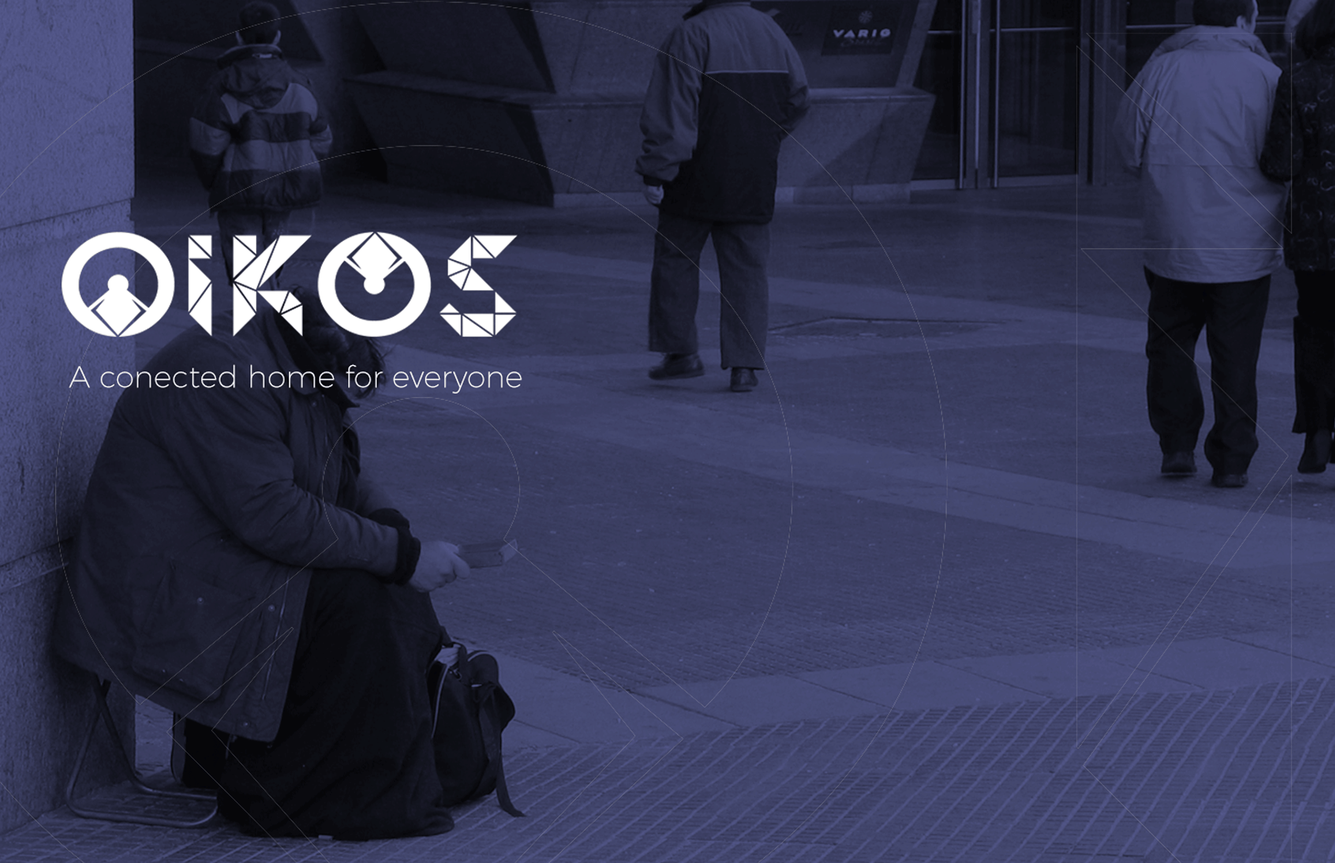
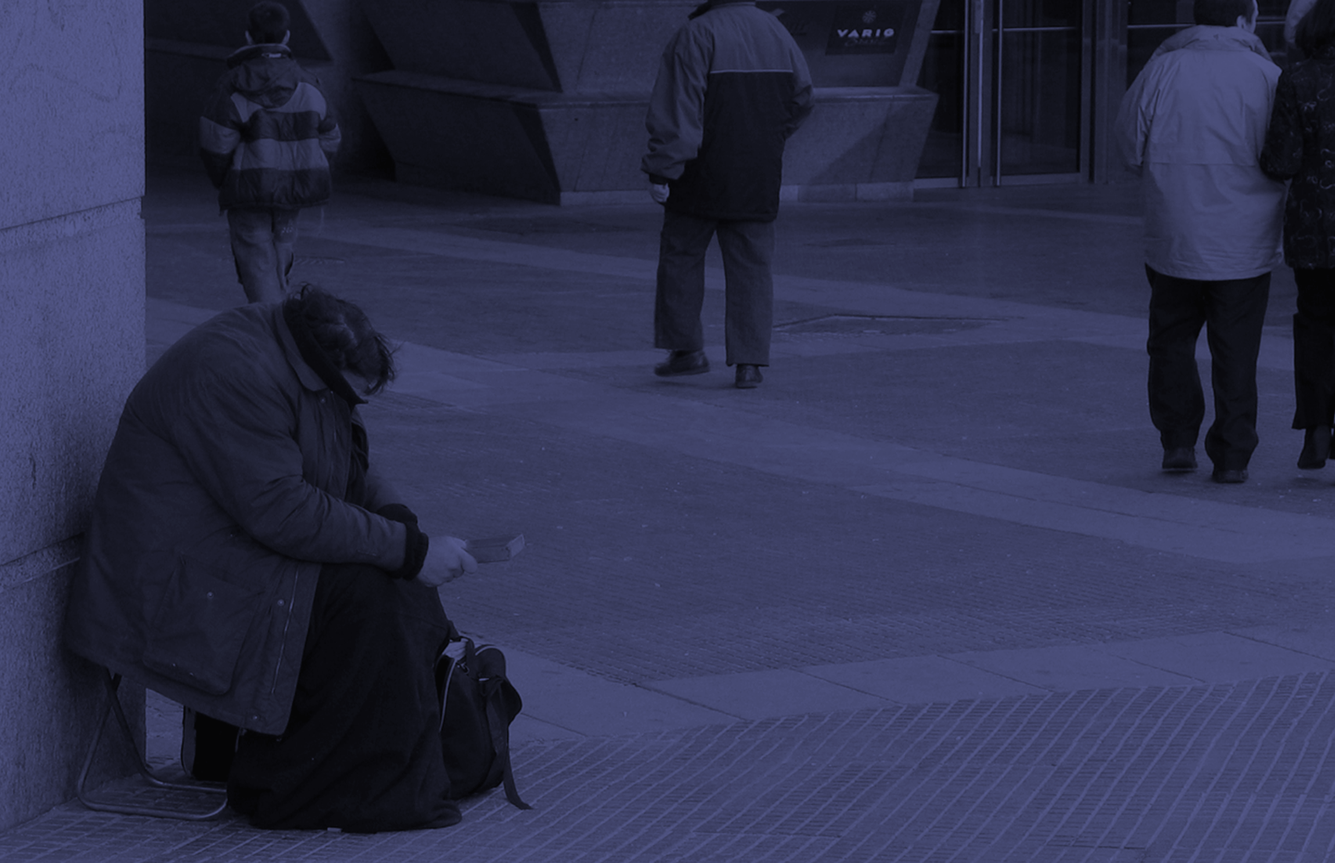
[Filipe Oliveira] Image changes

diff --git a/index.html b/index.html
@@ -9,7 +9,7 @@
     <meta name="viewport" content="width=device-width, initial-scale=1">
 
     <!-- Favicon -->
-    <link rel="shortcut icon" href="favicon.ico">
+    <link rel="shortcut icon" href="assets/images/oikos/favicon.png">
     <!-- Bootstrap -->
     <link rel="stylesheet" href="assets/styles/vendor/bootstrap.min.css">
     <!-- Fonts -->
@@ -52,14 +52,8 @@
 
     <nav class="navbar navbar-default navbar-fixed-top navbar-trans navbar-trans-dark trans-helper navbar-fw" role="navigation">
         <div class="navbar-header page-scroll">
-            <button type="button" class="navbar-toggle collapsed" data-toggle="collapse" data-target="#navbar" aria-expanded="false" aria-controls="navbar">
-                <span class="sr-only">Toggle navigation</span>
-                <span class="icon-bar"></span>
-                <span class="icon-bar"></span>
-                <span class="icon-bar"></span>
-            </button>
             <!-- Logo -->
-            <a class="navbar-brand" href="index.html"><img class="navbar-logo-dark" src="assets/images/oikos/logo.png" alt="Oikos Logo"></a>
+            <a class="navbar-brand" href="index.html"><img class="navbar-logo-dark" src="assets/images/oikos/logo-light.png" alt="Oikos Logo"></a>
         </div>
 
 
@@ -76,8 +70,7 @@
             <!-- Hero Content -->
             <div class="hero-content-wrapper">
                 <div class="hero-content">
-
-
+                    <div class="hero-lead wow fadeInLeft" data-wow-duration="1.5s"><img src="assets/images/oikos/logo_big.png" alt="Oikos - Connected home for everyone"></div>
                 </div>
             </div>
 
@@ -93,37 +86,40 @@
     <!-- / .main-hero-2 -->
 
     <!-- ========== About OIKOS ========== -->
-    <section id="problem" class="container">
-        <div class="row">
-            <h2>Problem</h2>
-            <div class="col-md-12">
-                <p>According to a report by the UN Commission on Human Rights, it is estimated that there are over 100 million people who do not have a home and so live on the streets of major metropolitan centers around the world. The number represents
-                    about 1.5% of the world's population and only increases each year.</p>
+    <div id="about" class="container">
+        <section id="problem" class="container">
+            <div class="row">
+                <h2>Problem</h2>
+                <div class="col-md-12">
+                    <p>According to a report by the UN Commission on Human Rights, it is estimated that there are over 100 million people who do not have a home and so live on the streets of major metropolitan centers around the world. The number represents
+                        about 1.5% of the world's population and only increases each year.</p>
+                </div>
             </div>
-        </div>
-    </section>
-    <section id="solution" class="container">
-        <div class="row">
-            <h2>Solution</h2>
-            <div class="col-md-12">
-                <p>We believe that there are ways to achieve social and economic justice through technologies for the good of all people. We believe in equality, that everyone has the right to own a home, a place to live in. Taking a look at the increasing
-                    of poverty conditions of people living in streets we started this project with the mainly mission of understanding how we could help their needs and inclusion in society.</p>
+        </section>
+        <section id="solution" class="container">
+            <div class="row">
+                <h2>Solution</h2>
+                <div class="col-md-12">
+                    <p>We believe that there are ways to achieve social and economic justice through technologies for the good of all people. We believe in equality, that everyone has the right to own a home, a place to live in. Taking a look at the increasing
+                        of poverty conditions of people living in streets we started this project with the mainly mission of understanding how we could help their needs and inclusion in society.</p>
 
-                <p>For this aim, we present you “OIKOS”, a low cost, smart and accessible house for the social inclusion of homeless people. Our solution consists in a literal house with a Parametric Design made of recycled material, such as cardboard. Low
-                    cost solar panels are also available in each Oikos house with the aim to charge during the day offering led light at night and energy. Oikos comes with colourful cultural-concept paintings that can bring beauty and life into the cities.</p>
+                    <p>For this aim, we present you “OIKOS”, a low cost, smart and accessible house for the social inclusion of homeless people. Our solution consists in a literal house with a Parametric Design made of recycled material, such as cardboard.
+                        Low cost solar panels are also available in each Oikos house with the aim to charge during the day offering led light at night and energy. Oikos comes with colourful cultural-concept paintings that can bring beauty and life into
+                        the cities.</p>
 
-                <p>The Oikos houses are connected to each other forming a P2P network inside our IoT system and Wearables with a Context Sensitive program. Thus, it is possible to create a georeffered map of the needs of each oikos’ resident. The Oikos house
-                    is equipped with “buttons of needs”, as for exemple one for food and water and another for clothes and higiene things. This data will be send to an community app to establish the relationship from the oikos’ residents with the society
-                    promoting inclusion and social participation of all. Our Smart City system is responsible for all this data consolidation, generating a connection between the society and the people in need.</p>
+                    <p>The Oikos houses are connected to each other forming a P2P network inside our IoT system and Wearables with a Context Sensitive program. Thus, it is possible to create a georeffered map of the needs of each oikos’ resident. The Oikos
+                        house is equipped with “buttons of needs”, as for exemple one for food and water and another for clothes and higiene things. This data will be send to an community app to establish the relationship from the oikos’ residents with
+                        the society promoting inclusion and social participation of all. Our Smart City system is responsible for all this data consolidation, generating a connection between the society and the people in need.</p>
 
-                <p>With the app, each user may donate a percentage of their internet for the oikos’ residents. With that, oikos’s residents can have access to internet.</p>
+                    <p>With the app, each user may donate a percentage of their internet for the oikos’ residents. With that, oikos’s residents can have access to internet.</p>
 
-                <p>A vision of future for the Oikos houses is that can become big energy generators for the population giving back what they received, establishing a sustainable exchange movement between the society and the oikos’ residents. Possible partnerships
-                    with online courses institutions can be made with the objective to offer a professionalizing opportunities for the Oikos residents.</p>
+                    <p>A vision of future for the Oikos houses is that can become big energy generators for the population giving back what they received, establishing a sustainable exchange movement between the society and the oikos’ residents. Possible
+                        partnerships with online courses institutions can be made with the objective to offer a professionalizing opportunities for the Oikos residents.</p>
+                </div>
             </div>
-        </div>
-        <!-- / .row -->
-    </section>
+            <!-- / .row -->
+        </section>
+    </div>
     <!-- / .section -->
 
     <!-- ========== Footer ========== -->

diff --git a/assets/styles/oikos.css b/assets/styles/oikos.css
@@ -1,7 +1,14 @@
 .main-demo-hero {
   background: url(../images/oikos/header.png);
   background-size: cover;
+  background-attachment: fixed;
 }
 .navbar-trans .navbar-logo-dark {
   content: url(../images/oikos/logo.png);
+}
+.main-demo-hero .bg-overlay {
+    background: initial;
+}
+.main-demo-hero .hero-content-wrapper .hero-content{
+    padding-bottom: 25%;
 }
